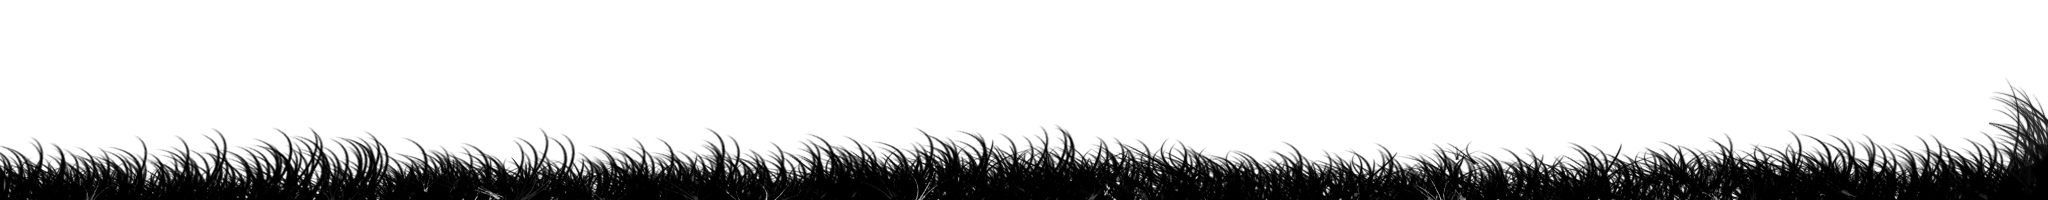
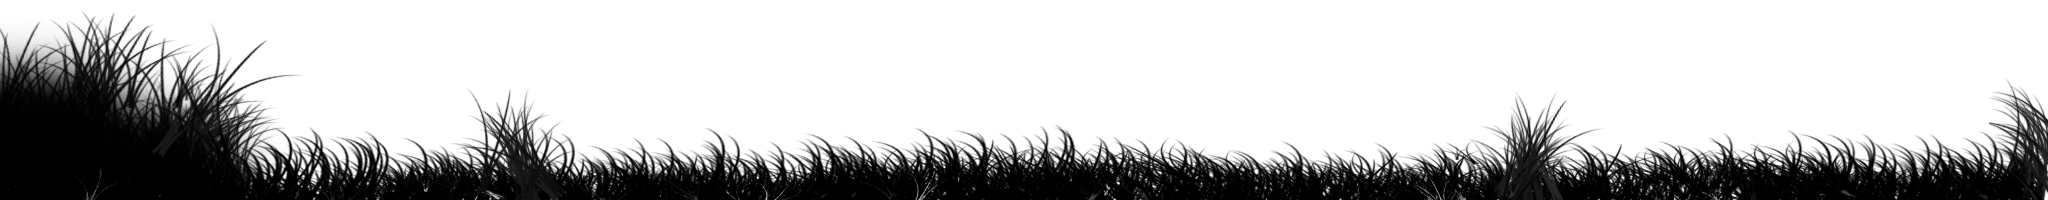
keke2: fixed issue with ground / grass; added falling animation (same as jummp atm)

diff --git a/public/src/js/keke_game2.js b/public/src/js/keke_game2.js
@@ -32,8 +32,8 @@ function preload() {
   game.load.image('treesBack', 'images/trees_back01.png');
   game.load.image('treesFore', 'images/trees_fore01.png');
   game.load.image('platform', 'images/platform.png');
-  game.load.image('grass', 'images/grass01.png');
-  game.load.image('grass2', 'images/grass01.png');
+  game.load.image('grass1', 'images/grass01.png');
+  game.load.image('grass2', 'images/grass02.png');
   game.load.image('lollipop', 'images/lollipop.png');
   game.load.image('quitButton', 'images/quit_button.png');
 
@@ -52,19 +52,25 @@ function create() {
 	game.add.sprite(2048, 0, 'mountains');
 	game.add.sprite(2048, (stage.height - 490), 'treesBack');
 	game.add.sprite(2048, 0, 'treesFore');
+
+	game.add.sprite(0, (stage.height - 200), 'grass1');
+	game.add.sprite(2048, (stage.height - 200), 'grass2');
 	
   game.world.setBounds(0, 0, 4096, stage.height);
 
   //  The platforms group contains the ground and the 2 ledges we can jump on
   platforms = game.add.group();
 
-  var ground = platforms.create(0, game.world.height - 28, 'grass');
-  // ground.scale.setTo(1, 1);
-  ground.body.immovable = true;
+	var ground = platforms.create(0, game.world.height - 20, 'platform');
+	ground.scale.setTo(8, 1);
+	ground.body.immovable = true;
+  
+	ground = platforms.create(2048, game.world.height - 20, 'platform');
+	ground.scale.setTo(8, 1);
+  	ground.body.immovable = true;
 
-  var ground2 = platforms.create(2048, game.world.height - 56, 'grass2');
-  ground2.scale.setTo(1, 1);
-  ground2.body.immovable = true;
+  // var ground2 = platforms.create(2048, game.world.height - 200, 'grass2');
+  // ground2.body.immovable = true;
 
   //  Now let's create two ledges
    var ledge = platforms.create(500, (stage.height - 80), 'platform');
@@ -93,8 +99,6 @@ function create() {
   player.body.collideWorldBounds = true;
 	
   game.camera.follow(player, Phaser.Camera.FOLLOW_PLATFORMER);
-
-	game.add.sprite(0, (stage.height - 220), 'grass');
 
     //  Finally some lollipops to collect
     lollipops = game.add.group();
@@ -287,12 +291,14 @@ function checkGameInput() {
 			playerConfig.facingForward = false;
 		}
 
-		playerConfig.jumping = false;
 		if(player.body.touching.down) {
 			if(jl.normalizedY > 0.5) {
 				player.body.velocity.y = -playerConfig.jumpHeight;
 				playerConfig.jumping = true;
 			}
+		} else {
+			playerConfig.jumping = false;
+			
 		}
    }
  	setPlayerAnimations();
@@ -301,6 +307,7 @@ function checkGameInput() {
 function setPlayerAnimations() {
 	// trace('player vel x = ' + player.body.velocity.x);
 	if(playerConfig.jumping) {
+		trace('jumping');
 		// jumping
 		if(playerConfig.facingForward) {
 			// player.animations.play('jumpR', 1, false);
@@ -313,18 +320,29 @@ function setPlayerAnimations() {
 			// player.frame = 3;
 			playerConfig.currentAnimation = 'jumpL';
 		}
-	} else if(player.body.touching.down) {
+	} else if(!player.body.touching.down) {
+		trace('falling');
+		if(playerConfig.facingForward) {
+			// player.frame = 4;
+			player.frame = 9;
+			playerConfig.currentAnimation = 'fallingR';
+		} else {
+			// player.frame = 5;
+			player.frame = 24;
+			playerConfig.currentAnimation = 'fallingL';
+		}
+	} else {
 		if(player.body.velocity.x > 0) {
 			if(playerConfig.currentAnimation !== 'runR') {
 		 		trace('play run right');
-				player.animations.play('runR', 15, true);
+				player.animations.play('runR', 10, true);
 				playerConfig.currentAnimation = 'runR';
 				playerConfig.facingForward = false;
 			}
 		} else if(player.body.velocity.x < 0) {
 			if(playerConfig.currentAnimation !== 'runL') {
 		 		trace('play run left');
-				player.animations.play('runL', 15, true);
+				player.animations.play('runL', 10, true);
 				playerConfig.currentAnimation = 'runL';
 				playerConfig.facingForward = false;
 			}

diff --git a/public/src/index.html b/public/src/index.html
@@ -1,14 +1,21 @@
-<!DOCTYPE html>
-<html>
-<head>
-    <title>keke vs. the caterpillars</title>
-	<meta name="viewport" content="width=device-width, initial-scale=1.0, maximum-scale=1.0, minimum-scale=1.0, user-scalable=no">
-	<link rel="stylesheet" type="text/css" href="css/canvas_test.css" />
+<!DOCTYPE html> 
+<html lang="en"> 
+<head> 
+	<meta charset="UTF-8" />
+	<title>keke vs. caterpillars (phaserjs)</title>
 	<script src="http://ajax.googleapis.com/ajax/libs/jquery/1.10.2/jquery.js"></script>
-    <script src="http://d3lp1msu2r81bx.cloudfront.net/kjs/js/lib/kinetic-v4.7.4.min.js"></script>
+	<script type="text/javascript" src="js/utils/logger.js"></script>
+	<script type="text/javascript" src="js/third_party/phaser.min.js"></script>
+	<script type="text/javascript" src="js/third_party/gamecontroller.js"></script>
+    <style type="text/css">
+        body {
+            margin: 0;
+        }
+    </style>
 </head>
 <body>
-    <div id="container"></div>
-	<script type="text/javascript" src="js/keke_game.min.js"></script>
+
+<script type="text/javascript" src="js/keke_game2.js"></script>
+
 </body>
 </html>

diff --git a/public/index.html b/public/index.html
@@ -1,0 +1,14 @@
+<!DOCTYPE html>
+<html>
+<head>
+    <title>keke vs. the caterpillars</title>
+	<meta name="viewport" content="width=device-width, initial-scale=1.0, maximum-scale=1.0, minimum-scale=1.0, user-scalable=no">
+	<link rel="stylesheet" type="text/css" href="css/canvas_test.css" />
+	<script src="http://ajax.googleapis.com/ajax/libs/jquery/1.10.2/jquery.js"></script>
+    <script src="http://d3lp1msu2r81bx.cloudfront.net/kjs/js/lib/kinetic-v4.7.4.min.js"></script>
+</head>
+<body>
+    <div id="container"></div>
+	<script type="text/javascript" src="js/keke_game.min.js"></script>
+</body>
+</html>
